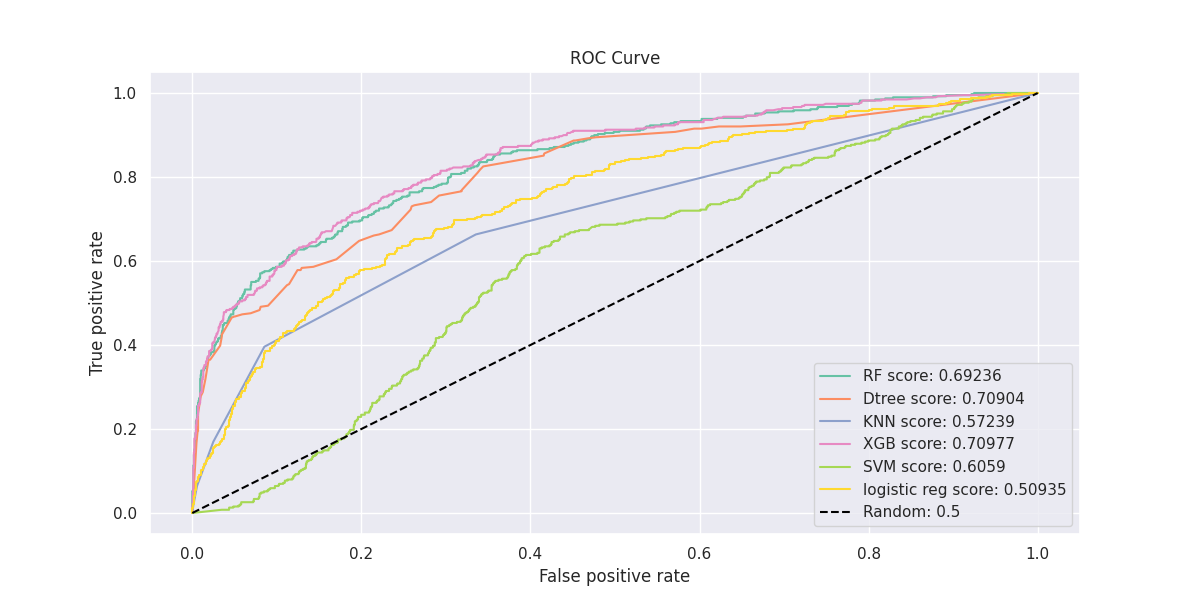
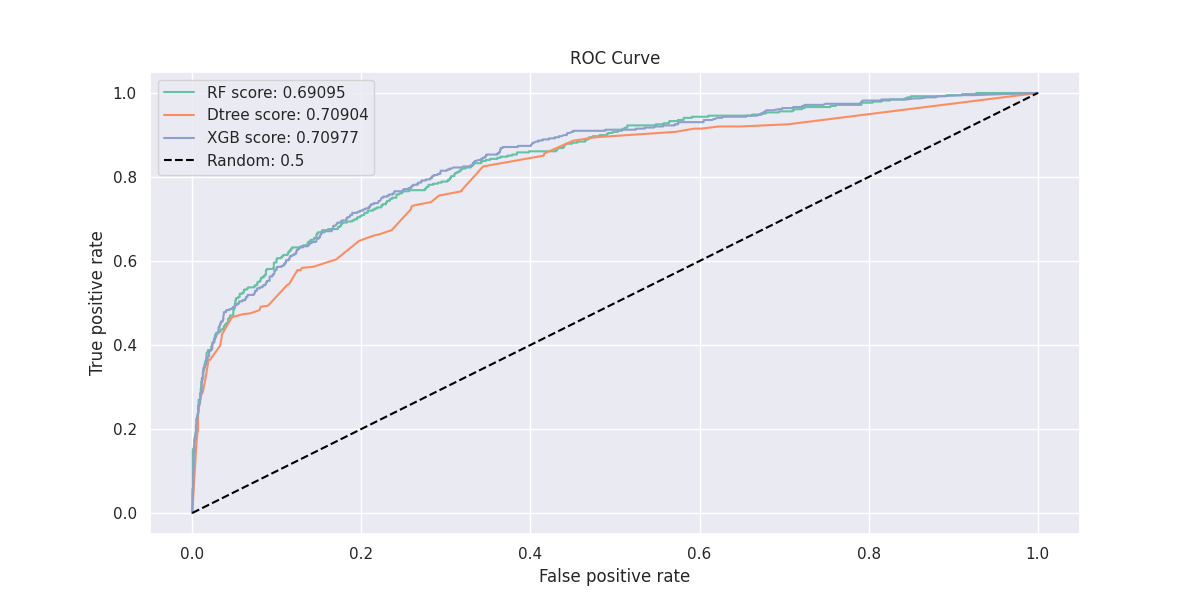
update plots

diff --git a/run_classifiers.py b/run_classifiers.py
@@ -3,6 +3,7 @@ from preparingdata import minVec, maxVec
 from model import *
 import matplotlib.pyplot as plt
 import matplotlib
+from utils_service import *
 from sklearn.metrics import classification_report
 
 matplotlib.use("TkAgg")
@@ -41,7 +42,13 @@ ds_test = df_prep_pipeline(ds_test, ds_train.columns, minVec, maxVec)
 ds_test = ds_test.mask(np.isinf(ds_test))
 ds_test = ds_test.dropna()
 print(ds_test.shape)
-# print(classification_report(ds_test.Exited, RF.predict(ds_test.loc[:, ds_test.columns != 'Exited'])))
+
+# getting some information about classification pararmeters for evaluation phase:
+print("Evaluation parameters for Random Forest:\n")
+compute_and_print_evaluation(ds_test.Exited, RF.predict(ds_test.loc[:, ds_test.columns != 'Exited']))
+print("Evaluation parameters for XGB:\n")
+compute_and_print_evaluation(ds_test.Exited, xgb.predict(ds_test.loc[:, ds_test.columns != 'Exited']))
+
 auc_RF_test, fpr_RF_test, tpr_RF_test = get_auc_scores(ds_test.Exited,
                                                        RF.predict(ds_test.loc[:, ds_test.columns != 'Exited']),
                                                        RF.predict_proba(ds_test.loc[:, ds_test.columns != 'Exited'])[:,
@@ -52,37 +59,37 @@ auc_DTree_test, fpr_DTree_test, tpr_Dtree_test = get_auc_scores(ds_test.Exited,
                                                                 dtree.predict_proba(
                                                                     ds_test.loc[:, ds_test.columns != 'Exited'])[:,
                                                                 1])
-auc_KNN_test, fpr_KNN_test, tpr_KNN_test = get_auc_scores(ds_test.Exited,
-                                                          knn.predict(
-                                                              ds_test.loc[:, ds_test.columns != 'Exited']),
-                                                          knn.predict_proba(
-                                                              ds_test.loc[:, ds_test.columns != 'Exited'])[:,
-                                                          1])
+# auc_KNN_test, fpr_KNN_test, tpr_KNN_test = get_auc_scores(ds_test.Exited,
+#                                                           knn.predict(
+#                                                               ds_test.loc[:, ds_test.columns != 'Exited']),
+#                                                           knn.predict_proba(
+#                                                               ds_test.loc[:, ds_test.columns != 'Exited'])[:,
+#                                                           1])
 auc_xgb_test, fpr_xgb_test, tpr_xgb_test = get_auc_scores(ds_test.Exited,
                                                           xgb.predict(
                                                               ds_test.loc[:, ds_test.columns != 'Exited']),
                                                           xgb.predict_proba(
                                                               ds_test.loc[:, ds_test.columns != 'Exited'])[:,
                                                           1])
-auc_svm_test, fpr_svm_test, tpr_svm_test = get_auc_scores(ds_test.Exited,
-                                                          SVM_RBF.predict(
-                                                              ds_test.loc[:, ds_test.columns != 'Exited']),
-                                                          SVM_RBF.predict_proba(
-                                                              ds_test.loc[:, ds_test.columns != 'Exited'])[:,
-                                                          1])
-auc_log_test, fpr_log_test, tpr_log_test = get_auc_scores(ds_test.Exited,
-                                                          log_primal.predict(
-                                                              ds_test.loc[:, ds_test.columns != 'Exited']),
-                                                          log_primal.predict_proba(
-                                                              ds_test.loc[:, ds_test.columns != 'Exited'])[:,
-                                                          1])
+# auc_svm_test, fpr_svm_test, tpr_svm_test = get_auc_scores(ds_test.Exited,
+#                                                           SVM_RBF.predict(
+#                                                               ds_test.loc[:, ds_test.columns != 'Exited']),
+#                                                           SVM_RBF.predict_proba(
+#                                                               ds_test.loc[:, ds_test.columns != 'Exited'])[:,
+#                                                           1])
+# auc_log_test, fpr_log_test, tpr_log_test = get_auc_scores(ds_test.Exited,
+#                                                           log_primal.predict(
+#                                                               ds_test.loc[:, ds_test.columns != 'Exited']),
+#                                                           log_primal.predict_proba(
+#                                                               ds_test.loc[:, ds_test.columns != 'Exited'])[:,
+#                                                           1])
 plt.figure(figsize=(12, 6), linewidth=1)
 plt.plot(fpr_RF_test, tpr_RF_test, label='RF score: ' + str(round(auc_RF_test, 5)))
 plt.plot(fpr_DTree_test, tpr_Dtree_test, label='Dtree score: ' + str(round(auc_DTree_test, 5)))
-plt.plot(fpr_KNN_test, tpr_KNN_test, label='KNN score: ' + str(round(auc_KNN_test, 5)))
+# plt.plot(fpr_KNN_test, tpr_KNN_test, label='KNN score: ' + str(round(auc_KNN_test, 5)))
 plt.plot(fpr_xgb_test, tpr_xgb_test, label='XGB score: ' + str(round(auc_xgb_test, 5)))
-plt.plot(fpr_svm_test, tpr_svm_test, label='SVM score: ' + str(round(auc_svm_test, 5)))
-plt.plot(fpr_log_test, tpr_log_test, label='logistic reg score: ' + str(round(auc_log_test, 5)))
+# plt.plot(fpr_svm_test, tpr_svm_test, label='SVM score: ' + str(round(auc_svm_test, 5)))
+# plt.plot(fpr_log_test, tpr_log_test, label='logistic reg score: ' + str(round(auc_log_test, 5)))
 
 plt.plot([0, 1], [0, 1], 'k--', label='Random: 0.5')
 plt.xlabel('False positive rate')

diff --git a/utils_service.py b/utils_service.py
@@ -1,4 +1,4 @@
-from sklearn.metrics import confusion_matrix, classification_report, roc_auc_score, f1_score, accuracy_score, roc_curve
+from sklearn.metrics import confusion_matrix, classification_report, roc_auc_score, f1_score, accuracy_score, roc_curve, precision_score
 import numpy as np
 
 
@@ -15,9 +15,9 @@ def remove_outliers(df, col):
 def compute_and_print_evaluation(y_test, predictor):
     print("ROC AUC Score:", roc_auc_score(y_test, predictor))
     print("Confusion Matrix:\n", confusion_matrix(y_test, predictor))
-    print("F1 Score:", f1_score(y_test, predictor))
-    print("Classification Report:\n", classification_report(y_test, predictor))
     print("Accuracy Score:", accuracy_score(y_test, predictor))
+    print("Precision Score:", precision_score(y_test, predictor))
+    print("Classification Report:\n", classification_report(y_test, predictor))
 
 
 # Function to give best model score and parameters
